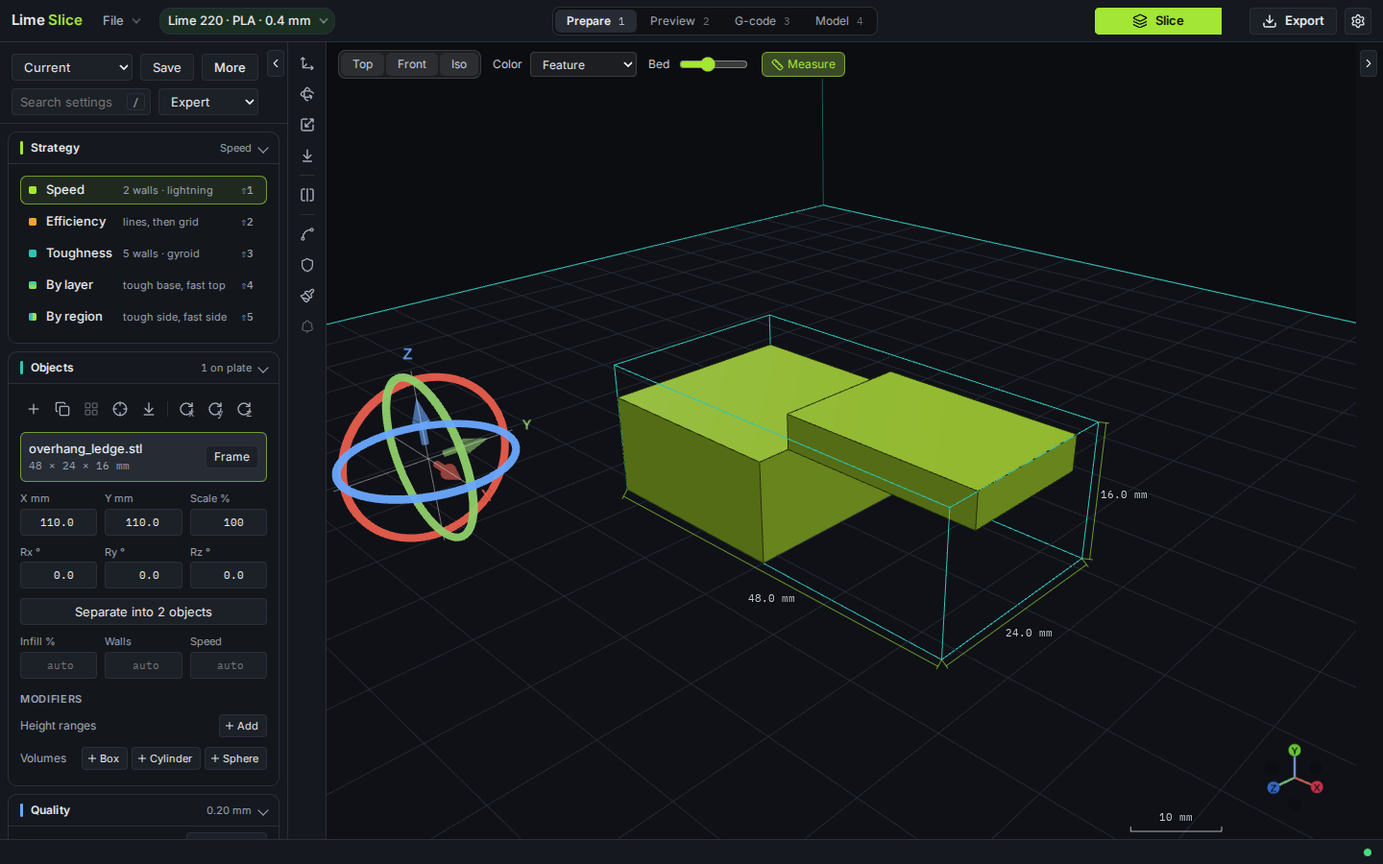
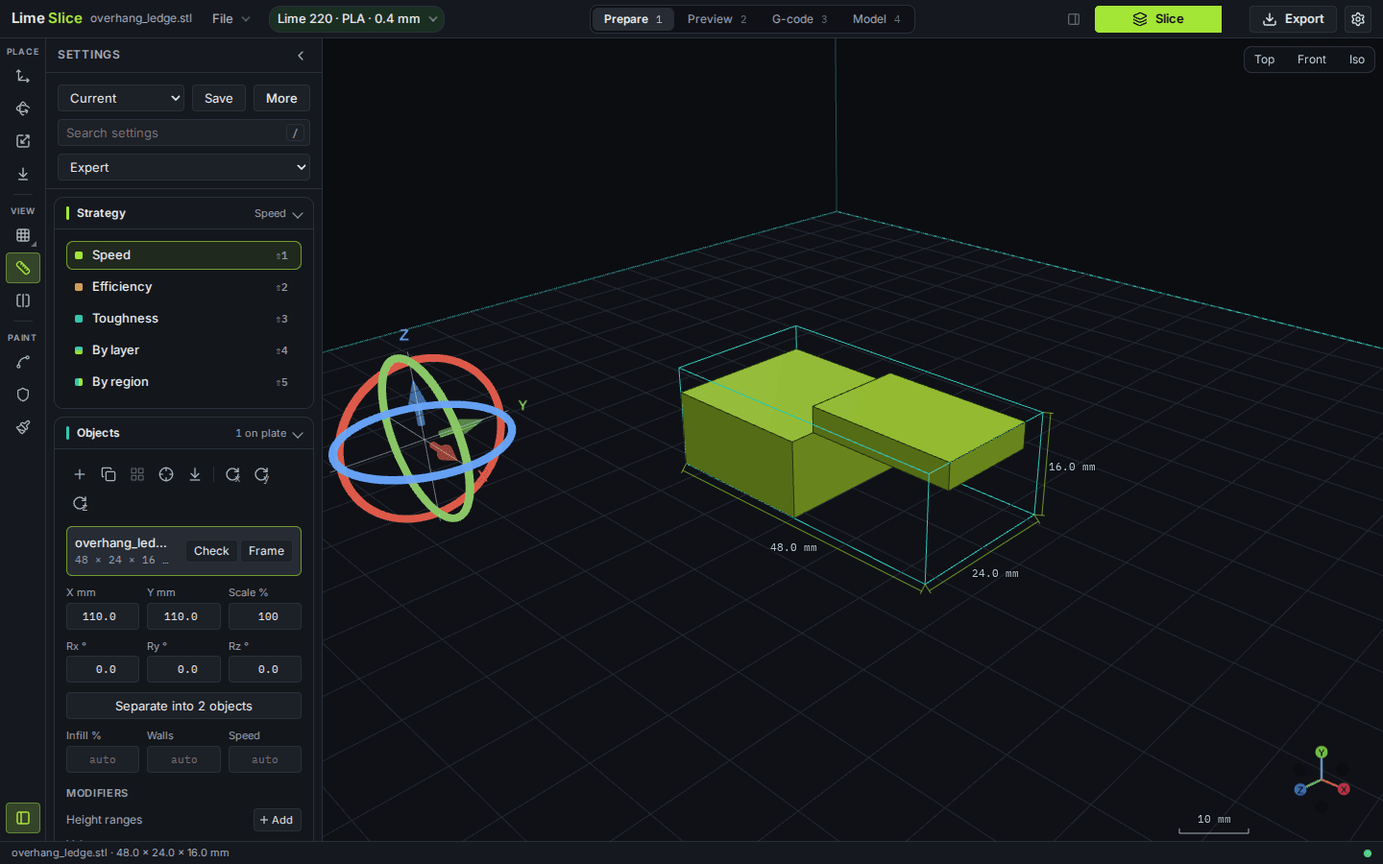
Document the 3.1 modeler with current screenshots and clips.
Retake the README and step-modeler images on the landscape layout, and give sketches, features, direct edits, parameters, and the MCP server the same weight as slicing.

diff --git a/README.md b/README.md
@@ -1,74 +1,146 @@
 # Lime Slice
 
-Lime Slice 3.1.0 is a slicer for filament printers. Open an STL, 3MF, or STEP file, set it on the build plate, and slice it to G-code. A Rust planner builds the toolpaths. The window is a Tauri 2 desktop app, and the same pages run in a browser against a local engine. STEP import uses Open CASCADE when its optional bridge is installed; builds without it use truck. Version 2.8.0 saves Model solids in Open CASCADE's binary format (`.lime` version 3), so a saved part opens in Model in seconds, and the MCP server works straight from the installer.
+Lime Slice 3.1.0 is a filament slicer and a solid modeler in one window. Open an STL, 3MF, or STEP file, or start a solid from a sketch, then slice it to G-code. A Rust planner builds the toolpaths. Model edits go through Open CASCADE when its bridge is installed. The window is a Tauri 2 desktop app, and the same pages run in a browser against a local engine.
+
+The shell is the landscape layout: a tool rail on the left, a dock on each side, and a status line. Prepare and Preview use the left dock for settings and the right dock for results. Model uses the left dock for the open tool, the sketch, History, and Parameters, and the right dock for Inspect.
+
+Dark theme, 1440×900, except the phone frames. Model clips and stills are the web UI against a local engine with the Open CASCADE bridge. Slice stills use `samples/overhang_ledge.stl` on the Lime 220 (PLA, 0.4 mm), speed strategy, organic tree supports: 8 min 19 s, 3.67 g, €0.07. The shelf layer is layer 62 at Z 12.40 mm.
+
+## Modeler
+
+Model edits a STEP solid, or starts one from a primitive or a sketch. The desktop release includes the Open CASCADE libraries. A build without them still slices an unedited STEP file, and Model stays off. `.lime` version 3 stores the solid as Open CASCADE's binary brep, so a saved part opens in Model without rebuilding every face from scratch. The contract is [docs/step-modeler.md](docs/step-modeler.md).
+
+### Sketches and the constraint solver
+
+Sketch on the bed, or on a flat face. Line, rectangle, and the Draw menu (circle, arc, polygon, slot, and the rest) live on the sketch card in the left dock, not on the rail. A rectangle is born with horizontal and vertical constraints.
+
+The solver is in-house (`src/sketch/solve.ts`): Levenberg-Marquardt over the sketch's points, radii, and arc bulges. It is MIT. It is not PlaneGCS or FreeCAD. Constraints are coincident, horizontal, vertical, parallel, perpendicular, tangent, equal, concentric, midpoint, fixed, and the driving sizes distance, length, radius, diameter, and angle. A driving size can be an expression that names a parameter. Dragging a point solves the rest. The readout says when the sketch is fully defined, when a constraint conflicts, and when one repeats another. A size the other constraints cannot meet is refused and the old value stays.
+
+![A bed sketch. The rectangle carries horizontal and vertical constraints, and a driving length of 36 mm.](docs/screenshots/model-sketch.png)
+
+![Drawing a rectangle on the bed. The sides pick up horizontal and vertical as soon as the rectangle exists, and a corner drag solves against them.](docs/screenshots/clip-sketch.gif)
+
+### Extrude, revolve, loft, sweep, and holes
+
+Those five are sketch operations. They are buttons on the sketch card, and keys while a sketch is being edited. There is no rail button for them.
+
+- **Extrude** (E) takes the selected region, or the only outer region, and a signed distance. Join, cut, intersect, or a new object.
+- **Revolve** (V) spins that region about the line, construction line, or projected edge under the pointer, or about the plane's U or V axis. The angle runs from a tenth of a degree to a full turn. A profile that crosses the axis is refused.
+- **Loft** (Shift+L) blends two or more sections: regions of the open sketch, a pinned sketch, or a flat face. Ruled is a straight blend.
+- **Sweep** (W) carries the profile along a path sketch.
+- **Holes** (H) only on a sketch drawn on a face. Select points or circle centres and Apply drills one hole at each, with one radius, depth, through, and optional counterbore for the whole set. With no sketch open, H is still the single Hole tool.
+
+![Extruding the bed rectangle to 16 mm. The history row is the extrude.](docs/screenshots/clip-extrude.gif)
+
+![A 270° revolve of a rectangle that sits off the axis.](docs/screenshots/model-revolve.png)
+
+![Revolving that profile. The angle is typed, then the solid appears.](docs/screenshots/clip-revolve.gif)
+
+![A loft from an 18 mm square up to a circle.](docs/screenshots/model-loft.png)
+
+![Lofting the square into the circle on a raised workplane.](docs/screenshots/clip-loft.gif)
+
+![A sweep of an 8 mm square along a straight path.](docs/screenshots/model-sweep.png)
+
+![Sweeping the square along the path sketch.](docs/screenshots/clip-sweep.gif)
+
+![Two holes from sketch points, ⌀4 mm and 8 mm deep, and the history row that edits them together.](docs/screenshots/model-holes.png)
+
+![Sketching two circles on the top face and drilling a hole at each centre.](docs/screenshots/clip-holes.gif)
+
+The rail's other Model tools are still there: New solid (box, cylinder, sphere, ellipsoid, cone, torus, wedge, polygon, tube), fillet, chamfer, shell, split, scale, boolean, pattern, mirror, and the Features menu (pocket, boss, texture, array, ribs, text, Parameters). Measure and Check sit under Inspect. Place and Workplane sit under Frame. Undo, Redo, and STEP sit at the foot of the rail.
+
+### Push/pull and edge drag
+
+With no other tool open, hovering a face lights it and seats an arrow on the outward normal. Drag the arrow, or type a distance. The context bar offers Push/Pull, Hole, and Shell for that face. A plain drag moves the face and its neighbours (`moveFaces`): a box gets taller. Alt extrudes that face alone (`faceExtrude`).
+
+Hover an edge and type a radius. Enter fillets that edge. The same gesture with the chamfer tool breaks the edge instead. The context bar is the short row by the pointer, not a second toolbar.
+
+![Pulling the top of a 16 mm box by 8 mm. The history row is the pull.](docs/screenshots/model-push.png)
+
+![The pull arrow on the top face, then a typed distance.](docs/screenshots/clip-push.gif)
+
+![A 2 mm fillet on a hovered edge.](docs/screenshots/model-fillet.png)
+
+![Hovering an edge and typing the fillet radius.](docs/screenshots/clip-fillet.gif)
+
+### Parameters, expressions, and History Edit
+
+Parameters live under History in the left dock. Each row is a name and a value, or an expression in other parameters. Type that name into a size field: the field shows the number it evaluates to, with an ƒ mark, and keeps the expression. Change the parameter and Rebuild replays the steps that use it.
+
+History lists every step. Edit step (the row, or Shift+E) reopens that step's panel, including a group of sketch holes. The tree is stored in the `.lime` project. A part an MCP recipe built shows "Built by a recipe" and that line stays read-only: changing the recipe's parameters and rebuilding from them is not in the window yet. Undo and redo walk the same tree.
+
+![New solid. Size Z is the expression `height`, shown as 24 with the ƒ mark. The parameter is not used until Create.](docs/screenshots/model-parameters.png)
+
+![Creating the box from `height`, then changing the parameter and rebuilding the step.](docs/screenshots/clip-parameters.gif)
+
+### Section view
+
+View, on the rail, opens section, colour by step, the bed, and the size readout. A section plane through the part's centre drops the side the normal points at. The cut is red. Offset slides the plane; Flip swaps the side. It changes the drawing only.
+
+![Section through the middle of a 40×24×18 mm box. The red face is the cut.](docs/screenshots/model-section.png)
+
+![Turning section on and sliding the plane.](docs/screenshots/clip-section.gif)
+
+### STEP in and STEP out
+
+An unedited STEP is tessellated on load. With the bridge, Open CASCADE reads it. Without the bridge, the pure-Rust [truck](https://github.com/ricosjp/truck) kernel reads planes, cylinders, cones, spheres, tori, and NURBS, and converts file units to millimetres. Assemblies and multi-body parts become one mesh; each instance keeps its placement. The chord tolerance defaults to 0.05 mm (0.01–2 mm) via the Prepare field or `slice --step-tolerance`. Faceted brep and AP242 tessellated solids are rejected with an error.
+
+Model mode opens that STEP as the root of the history tree. The STEP button at the foot of the rail writes the solid on screen as AP214, a manifold solid B-rep. The same write is the MCP tool `model_export_step`.
+
+![A 30 mm box with a through hole, and History listing the box and the hole.](docs/screenshots/model-history.png)
+
+<img alt="Model on a phone-sized window. The tool strip scrolls, and the box sits on the bed." src="docs/screenshots/model-phone.png" width="240">
+
+On a phone (`?layout=compact`, or a window 600 px wide or narrower) the Model rail is one strip along the top. History, Undo, Redo, and STEP sit at the end of that strip.
+
+## Slicing
 
 **Prepare** puts the model on the plate. Move, turn, and scale it, then choose a strategy: speed, efficiency, toughness, or a blend by weight, by layer, or by region. Each strategy is a real set of walls, infill, speed, acceleration, seam, and retraction.
 
-**Preview** draws the finished toolpaths in 3D, coloured by feature. A layer slider walks the print. The results panel gives the time and the filament. A G-code tab shows the file.
+![Prepare. The overhang is on the Lime 220, with the strategy list in the settings dock.](docs/screenshots/prepare.png)
+
+**Preview** draws the finished toolpaths in 3D, coloured by feature. The stage can be 2D, split, or 3D. The layer slider walks the print in every pane. The results dock gives the time and the filament. A G-code tab shows the file.
+
+![Preview. Organic tree supports under the shelf. The chip reads 8 min 19 s, 3.67 g.](docs/screenshots/preview-3d.png)
+
+![Scrubbing the sliced overhang from the first layer to the top.](docs/screenshots/clip-slice.gif)
+
+![The layer at Z 12.40 mm, where the shelf starts, with the print-time and filament breakdown.](docs/screenshots/layer-estimate.png)
 
 **Reinforce** paints a patch on the surface, or places a box or a cylinder, so that part of the model prints denser infill, up to solid. The rest of the part keeps the strategy.
 
-**Model** edits a STEP solid, or starts one from a box, cylinder, sphere, cone, torus, wedge, polygon, or tube. Fuse, cut, or intersect the solid with one of those shapes. Split it on a plane. Fillet or chamfer the picked edges, drill a hole, scale it, or measure between two points. Undo and redo step through those edits. The History tree of the steps is saved in the `.lime` project, so the same solid opens again. The desktop release includes the Open CASCADE libraries that do this work. A build without them still slices an unedited STEP file, and Model stays off. An unedited STEP is tessellated on load with the pure-Rust [truck](https://github.com/ricosjp/truck) kernel: planes, cylinders, cones, spheres, tori, and NURBS, with file units converted to millimetres. Assemblies and multi-body parts become one mesh; each instance keeps its placement. The chord tolerance defaults to 0.05 mm (0.01–2 mm) via the Prepare field or `slice --step-tolerance`. Faceted brep and AP242 tessellated solids are rejected with an error.
+![Reinforce. A painted patch on the overhang, set to solid.](docs/screenshots/reinforce.png)
 
-**Belt printers.** A generic 45° belt and the Ideaformer IR3 V2 slice on the belt. The belt carries the part along its length.
+**Printer, filament, and nozzle** sit in the chip at the top. The library includes a generic 45° belt and the Ideaformer IR3 V2. On a belt the part rides along the belt, and the layer readout's Z is position along the belt, not height above the bed. The 20 mm cube on the IR3 V2, same speed strategy, is 3 min 46 s and 2.11 g.
 
-**Support interface.** With supports on, set the vertical gap, the sideways gap, how many dense layers sit under the part, and a brim around tree trunks that stand on the bed. Zero keeps the usual gap (one layer vertically, at least 0.12 mm, and 0.55 mm sideways), three dense interface layers, and trunks with no brim.
+![Lime 220, PLA, and a 0.4 mm nozzle.](docs/screenshots/machine-library.png)
 
-**Bridges.** With overhang control on, bridge flow, bridge speed, and bridge fan are their own settings. Zero keeps full flow, the usual bridge slowdown, and Overhang fan %.
+![The calibration cube on the Ideaformer IR3 V2. Layer 141 is Z 40.60 along the belt.](docs/screenshots/belt-preview.png)
 
-**Cooling.** Fan %, Overhang fan %, Support fan %, and Fan off for first layers set the part-cooling fan (`M106`). The first layers print with the fan off, then Fan % runs. Overhang spans and bridges take Overhang fan %, unless Bridge fan % is set. Supports, including tree branches, tips, and interface, take Support fan %. Left empty, it follows Fan %. Belt-contact walls stay off. Each filament carries its own values, as it carries its temperature. Choosing a filament sets them, and a change in the panel is saved to that filament. The built-in values come from OrcaSlicer's generic profiles (`resources/profiles/OrcaFilamentLibrary/filament/base`): PLA and TPU 100 / 100 % with 1 layer off, ABS 10 / 80 % with 3 layers off. PETG is 20 / 100 % with 3 layers off, which matches IdeaFormer's own Generic PETG for the IR3 V2. A saved filament of another material reads OrcaSlicer's values for PCTG, ASA, PC, or PA by its name, and PLA's otherwise. The engine sets the fan when it writes the G-code, so a fan change does not plan the toolpaths again, and the fan costs no print time in the estimate.
+![Slicing the cube on the IR3 V2 and scrubbing along the belt.](docs/screenshots/clip-belt.gif)
+
+**Supports.** Automatic, painted only, or off. The default style is organic tree (`supportStyle: "tree"`). With supports on, the vertical gap, the sideways gap, the dense layers under the part, and a brim around trunks that stand on the bed are their own settings. Zero keeps the usual gap (one layer vertically, at least 0.12 mm, and 0.55 mm sideways), three dense interface layers, and trunks with no brim.
+
+**Bridges and cooling.** With overhang control on, bridge flow, bridge speed, and bridge fan are their own settings. Zero keeps full flow, the usual bridge slowdown, and Overhang fan %. Fan %, Overhang fan %, Support fan %, and Fan off for first layers set the part-cooling fan (`M106`). The first layers print with the fan off, then Fan % runs. Overhang spans and bridges take Overhang fan %, unless Bridge fan % is set. Supports, including tree branches, tips, and interface, take Support fan %. Left empty, Support fan % follows Fan %. Belt-contact walls stay off. Each filament carries its own values. The built-in numbers come from OrcaSlicer's generic profiles: PLA and TPU 100 / 100 % with 1 layer off, ABS 10 / 80 % with 3 layers off, PETG 20 / 100 % with 3 layers off (IdeaFormer's Generic PETG for the IR3 V2). A saved filament of another material reads OrcaSlicer's values for PCTG, ASA, PC, or PA by its name, and PLA's otherwise. The engine writes the fan into the G-code without planning the toolpaths again, and the fan costs no print time in the estimate.
 
 **Layer pause.** Mark a layer to pause the print, or to change filament. The G-code uses that printer's pause or filament-change command.
 
 **Foreign 3MF.** A project from PrusaSlicer, OrcaSlicer, Bambu Studio, or Cura opens as a mesh. You can copy its layer height, wall count, infill, and whether supports are on. Temperatures, speeds, and the infill pattern stay as they are.
 
-**Send to printer.** Send uploads the current G-code to a Prusa Link, Moonraker, or OctoPrint host stored on the printer. You can ask the printer to start the job after the upload.
+**Send to printer.** Send uploads the current G-code to a Prusa Link, Moonraker, or OctoPrint host stored on the printer, and can start the job after the upload. The MCP server has no send-to-printer tool.
 
 **Settings search.** The box at the top of the settings panel filters every setting. `/` or Ctrl+F focuses it. `and` and `&` match the same word.
 
-**MCP server.** An LLM client such as Claude can drive the slicer: import or build a part, edit it in Model, place it, change settings, slice, and write G-code. With the live bridge on, the open window shows the same plate as the session changes it, and `app_open` opens the session's project in the app. See [MCP server](#mcp-server).
+![Settings search. `bridge` leaves overhang control and the bridge flow, speed, and fan.](docs/screenshots/settings-search.png)
 
-**Opening files.** The desktop app opens a `.lime`, `.stl`, `.3mf`, or `.step` file named on its command line (`lime-slice-desktop.exe duck.lime`). The installer registers `.lime`, so a double-click opens the project. Starting the app again while it is open hands the file to the open window instead of starting a second one, and the window asks before dropping unsaved changes, as File > Open does.
+**Opening files.** The desktop app opens a `.lime`, `.stl`, `.3mf`, or `.step` file named on its command line. The installer registers `.lime`, so a double-click opens the project. Starting the app again while it is open hands the file to the open window, and the window asks before dropping unsaved changes. File > New project (Ctrl+N) starts a blank document without restarting. A saved `.lime` can carry a small PNG and a one-line summary for Windows Explorer. See [docs/lime-explorer-preview.md](docs/lime-explorer-preview.md).
 
-**New project.** File > New project, Ctrl+N, or the same entry in the compact menu starts a blank document without restarting. The plate, the slice, Model, undo, and the file name are cleared. Settings and the printer go back to what a fresh window shows. If the open project has unsaved changes, the same dirty flag as Open asks Save, Don't save, or Cancel. The title bar says Untitled until a file is opened or saved.
+<img alt="Prepare on a phone. The overhang fills the stage, and Prepare, Settings, Model, Preview, and Device sit along the bottom." src="docs/screenshots/prepare-phone.png" width="240">
 
-**Explorer preview.** A saved `.lime` can carry a small PNG and a one-line summary, still as version 3 JSON. Windows Explorer can show that picture. See [docs/lime-explorer-preview.md](docs/lime-explorer-preview.md).
+<img alt="Preview on a phone. The calibration cube's toolpaths, with the layer slider." src="docs/screenshots/preview-phone.png" width="240">
 
-## Screenshots
-
-Dark theme. These are the web UI against the local engine, at 1440×900 except the phone frame. The part is `samples/overhang_ledge.stl` on the Lime 220 bed, sliced with the speed strategy and organic tree supports. That slice finished at 8 min 19 s and 3.67 g.
-
-![Prepare. The overhang sits on the build plate, with the strategy list open beside it.](docs/screenshots/prepare.png)
-
-Prepare. The model is on the plate, and the settings panel is open.
-
-![Preview. The finished slice in perspective, coloured by feature, with organic supports under the shelf.](docs/screenshots/preview-3d.png)
-
-Preview. Perspective view of the finished slice. Walls, infill, and supports keep their colours. The layer slider and the time estimate sit with the view.
-
-![The layer at Z 12.40 mm, where the shelf starts, with the print-time and filament breakdown.](docs/screenshots/layer-estimate.png)
-
-The layer at Z 12.40 mm, where the shelf starts, and the print-time and filament breakdown.
-
-![Printer, filament, and nozzle. Lime 220, PLA, and a 0.4 mm nozzle.](docs/screenshots/machine-library.png)
-
-Printer, filament, and nozzle. Lime 220, PLA, 0.4 mm.
-
-![Reinforce. A painted patch on the top of the overhang, set to solid infill.](docs/screenshots/reinforce.png)
-
-Reinforce. A painted patch on the part, set to print solid.
-
-![Settings search. The word bridge leaves overhang control and the bridge flow, speed, and fan.](docs/screenshots/settings-search.png)
-
-Settings search. Typing `bridge` leaves the overhang control and the bridge settings.
-
-![Model. A STEP cube with a hole, and the History panel listing those steps.](docs/screenshots/model-history.png)
-
-Model. A STEP solid, with the History panel open.
-
-<img alt="Phone layout. Prepare fills the screen, with the overhang on the plate and the settings sheet peeked." src="docs/screenshots/prepare-phone.png" width="240">
-
-Phone layout (`?layout=compact`). Prepare fills the screen, and the settings sheet peeks at the bottom.
+Phone layout is `?layout=compact`, or Interface layout set to Compact. Auto uses it when the window is 600 px wide or less. It is the same web UI, not an iOS app. Details are under [Phone / compact layout](#phone--compact-layout).
 
 ## Run the UI
 
@@ -156,6 +228,8 @@ The setup is the same. Only the paths differ:
 Paths use forward slashes. Set `LIME_MCP_WORKSPACE` the same way.
 
 ### What it does
+
+The server drives the same plate, settings, paint, and Model operations the window commits. The builders are shared (`src/modeling`, `src/model-request`): extrude, revolve, loft, sweep, shell, push/pull (`faceExtrude`, `moveFaces`), holes, fillet, chamfer, split, scale, boolean, pocket, boss, texture, pattern, mirror, text, array, and ribs, plus history edit, parameters, and STEP export. An LLM session therefore builds the same solids and the same G-code. The interactive sketch and its constraint solver stay in the window. The server takes numeric profiles and the feature operations, not pointer drags. There is no send-to-printer tool. `render_view` and `layer_image` give the client a picture of the solid or a layer.
 
 A typical slice is `machine_list`, `machine_select`, `mesh_import`, `slice_start`, `slice_wait`, `gcode_summary`. A hole is `faces_find`, `workplane_set`, `model_probe`, `model_apply`, `model_commit`, then `slice_start`. The guides `lime://guide/slice`, `lime://guide/model`, `lime://guide/paint`, and `lime://guide/calibrate` hold the same sequences. `guide {topic: "ops"}` lists every Model op with an example.
 

diff --git a/docs/step-modeler.md b/docs/step-modeler.md
@@ -1,16 +1,16 @@
-# STEP editing, the kernel crate
+# STEP modeler
 
-`docs/step-modeler-evaluation.md` is the decision. This note is the contract for the first change: a kernel crate that dynamically links Open CASCADE Technology 7.9.2. Model mode, picking, measure, and the edits themselves are later changes. `crates/lime-slice-core` is not part of this work.
+`docs/step-modeler-evaluation.md` is the decision. This note is the contract for Model mode: a kernel crate that dynamically links Open CASCADE Technology 7.9.2, and the window that drives it. `crates/lime-slice-core` is the slicer. It does not link Open CASCADE.
 
-## What this change is
+## What is linked
 
 `crates/lime-model` is the swap point. `Kernel` is the trait. `open()` loads a session.
 
 `OCCT_ROOT` selects the install. When it is set, the build links `TKernel` with `cargo:rustc-link-lib=dylib` and `open()` returns the string from `OCCT_Version_String_Complete()`. When it is unset, the C++ compiler is not run and `open()` returns an error. A static archive of `TKernel` fails the build.
 
-The core, the `lime-slice` CLI, and the Tauri shell do not depend on this crate. Opening the app and slicing a file stay on the path they have today. Truck remains the reader of an unedited STEP file. An edited solid, when that exists, will tessellate into the existing `sourcePos` / `encodeStl` path.
+The core, the `lime-slice` CLI, and the Tauri shell do not depend on this crate. Opening the app and slicing a file stay on the path they have today. Truck remains the reader of an unedited STEP file when the bridge is absent. An edited solid tessellates into the existing `sourcePos` / `encodeStl` path, and the STEP button writes that solid back out (see "STEP write").
 
-`tools/occt/install.py` compiles tag `V7_9_2` as shared libraries. The pin, the archive URL, and the SHA-256 are in `third_party/occt/NOTICE.md`. The toolkit list is the modeling set through `TKMesh` and `TKShHealing`, plus `TKDESTEP` so Model mode can read a solid. CMake pulls `TKXCAF`, `TKV3d`, and `TKService` for that reader. FreeType and OpenGL stay off, and those toolkits build without them. STEP write is still a later change.
+`tools/occt/install.py` compiles tag `V7_9_2` as shared libraries. The pin, the archive URL, and the SHA-256 are in `third_party/occt/NOTICE.md`. The toolkit list is the modeling set through `TKMesh` and `TKShHealing`, plus `TKDESTEP` so Model mode can read and write a solid. CMake pulls `TKXCAF`, `TKV3d`, and `TKService` for that reader. FreeType and OpenGL stay off, and those toolkits build without them.
 
 `tools/occt/stage_bundle.py` copies those shared libraries and the three notice files. The release workflow stages them at `src-tauri/resources/occt` and passes `src-tauri/tauri.occt.json`, which bundles that directory as `occt/`. A local `tauri build` does not pass that overlay and does not need OCCT. The staged directory is gitignored.
 
@@ -52,6 +52,32 @@ Model uses the same shell as the slicer stages: the rail at the far left, a dock
 - **Hole** names its sizes by diameter, as History does: Diameter and Bore diameter. The op still stores the radius (`radius`, `counterboreRadius`), so the MCP and older files are unchanged; the fields show twice the number, and an expression typed in them is kept as the radius's (`(expr) / 2`), and an older radius expression shows doubled (`src/ui/diameter-expr.ts`). Their knobs read Diameter and Bore diameter too.
 - **On the phone** the rail's Model set is one strip along the top that scrolls sideways, with History, then Undo, Redo and STEP at its end. The pick filter sits under it, and the paused chip, the readout and the size warning under that, at most half the width so the handle dock stays clear. The Model panel is the sheet at the bottom: the tool's card, the sketch card, the History sheet, or Parameters while they are opened. Inspect is on the Device tab.
 - **Measured** (Model with Boolean, real engine, dark, 1366 × 768 / 1440 × 900 / 1920 × 1080): the view's clear share went from 0.534 / 0.583 / 0.681 to 0.688 / 0.709 / 0.759 (the mockup asked for 0.682 / 0.705 / 0.756), and with a sketch open at 1366 × 768 from 0.593 to 0.686 (0.682 asked).
+
+## The window, as of 3.1
+
+These are the web UI at 1440×900, dark, against a local engine with the Open CASCADE bridge. The phone frame is 390×844.
+
+![History. A 30 mm box and a through hole, in the left dock.](screenshots/model-history.png)
+
+![A bed sketch. Horizontal and vertical on the rectangle, and a driving length.](screenshots/model-sketch.png)
+
+![Size Z is the expression `height`. The field shows 24 and the ƒ mark.](screenshots/model-parameters.png)
+
+![Section through the middle of a box. The red face is the cut, and View stays open.](screenshots/model-section.png)
+
+![Revolve, 270°.](screenshots/model-revolve.png)
+
+![Loft from a square to a circle.](screenshots/model-loft.png)
+
+![Sweep of a square along a straight path.](screenshots/model-sweep.png)
+
+![Two holes from points on a face sketch.](screenshots/model-holes.png)
+
+![Push/pull. The top face moved 8 mm.](screenshots/model-push.png)
+
+![A fillet typed on a hovered edge.](screenshots/model-fillet.png)
+
+<img alt="Model on a phone. The rail is a strip along the top." src="screenshots/model-phone.png" width="240">
 
 ## Model space
 
